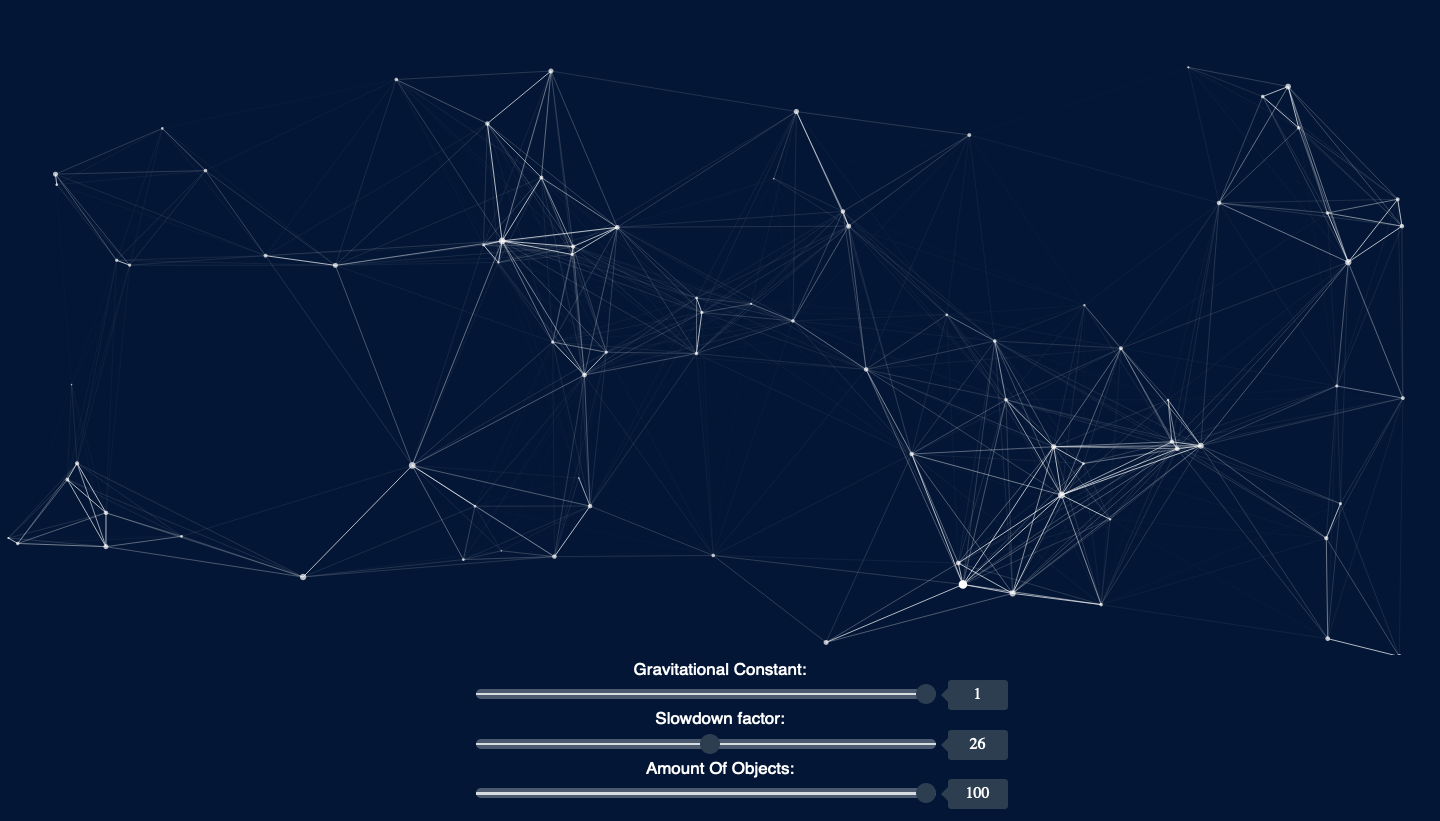
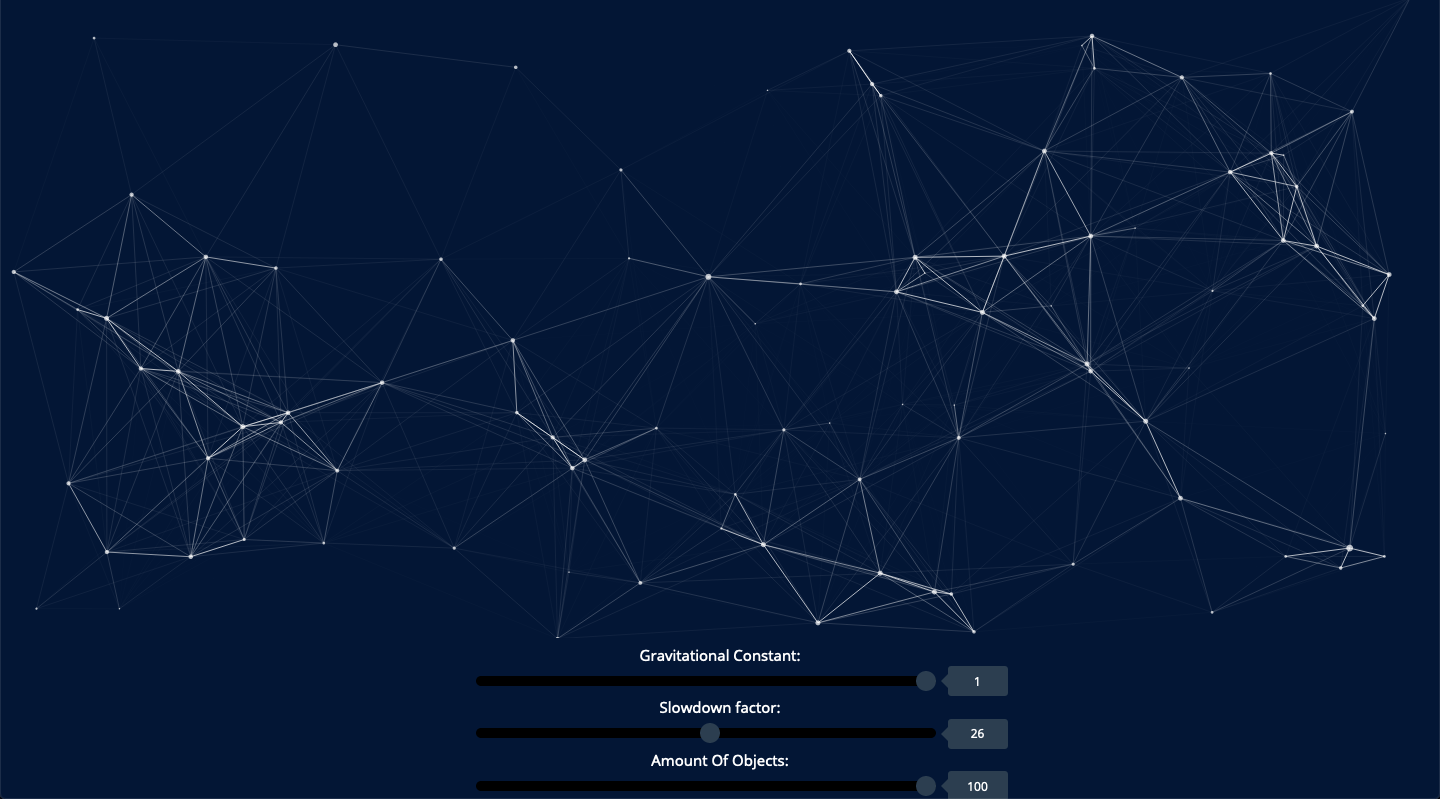
Final commit

diff --git a/src/index.html b/src/index.html
@@ -28,7 +28,7 @@
         width: calc(100% - (73px));
         height: 10px;
         border-radius: 5px;
-        background: #4c5a70;
+        background: #000000;
         padding: 0;
         margin: 0;
       }
@@ -38,13 +38,13 @@
         width: 20px;
         height: 20px;
         border-radius: 50%;
-        background: #FFFFFF;
+        background: #000000;
         cursor: pointer;
         -webkit-transition: background .15s ease-in-out;
         transition: background .15s ease-in-out;
       }
       .slider-range::-webkit-slider-thumb:hover {
-        background: #FFFFFF;
+        background: #000000;
       }
       .slider-range:active::-webkit-slider-thumb {
         background: #FFFFFF;
@@ -60,22 +60,24 @@
         transition: background .15s ease-in-out;
       }
       .slider-range::-moz-range-thumb:hover {
-        background: #FFFFFF;
+        background: #2c3e50;
       }
       .slider-range:active::-moz-range-thumb {
-        background: #FFFFFF;
+        background: #2c3e50;
       }
       .slider-value {
         display: inline-block;
         position: relative;
         width: 60px;
-        color: #fff;
+        color: #FFF;
         line-height: 20px;
         text-align: center;
         border-radius: 3px;
         background: #2c3e50;
         padding: 5px 10px;
         margin-left: 8px;
+        font-family: 'Open Sans', sans-serif;
+        font-size: 12px;
       }
       .slider-value:after {
         position: absolute;
@@ -89,7 +91,7 @@
         content: '';
       }
       ::-moz-range-track {
-        background: #d7dcdf;
+        background: #000000;
         border: 0;
       }
       input::-moz-focus-inner,
@@ -98,8 +100,8 @@
       }
 
       label {
-        font-family: 'Roboto', sans-serif;
-        font-size: 17px;
+        font-family: 'Open Sans', sans-serif;
+        font-size: 15px;
         color: #FFFFFF;
       }
     </style>
